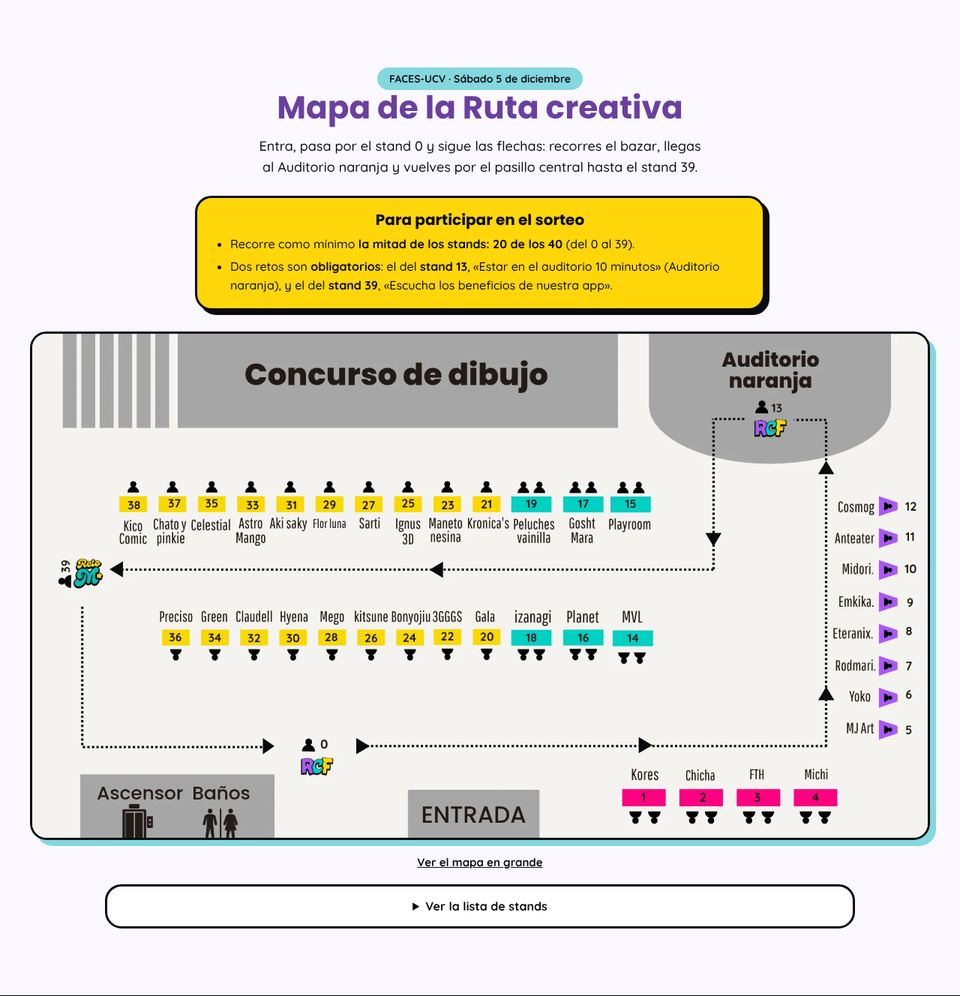
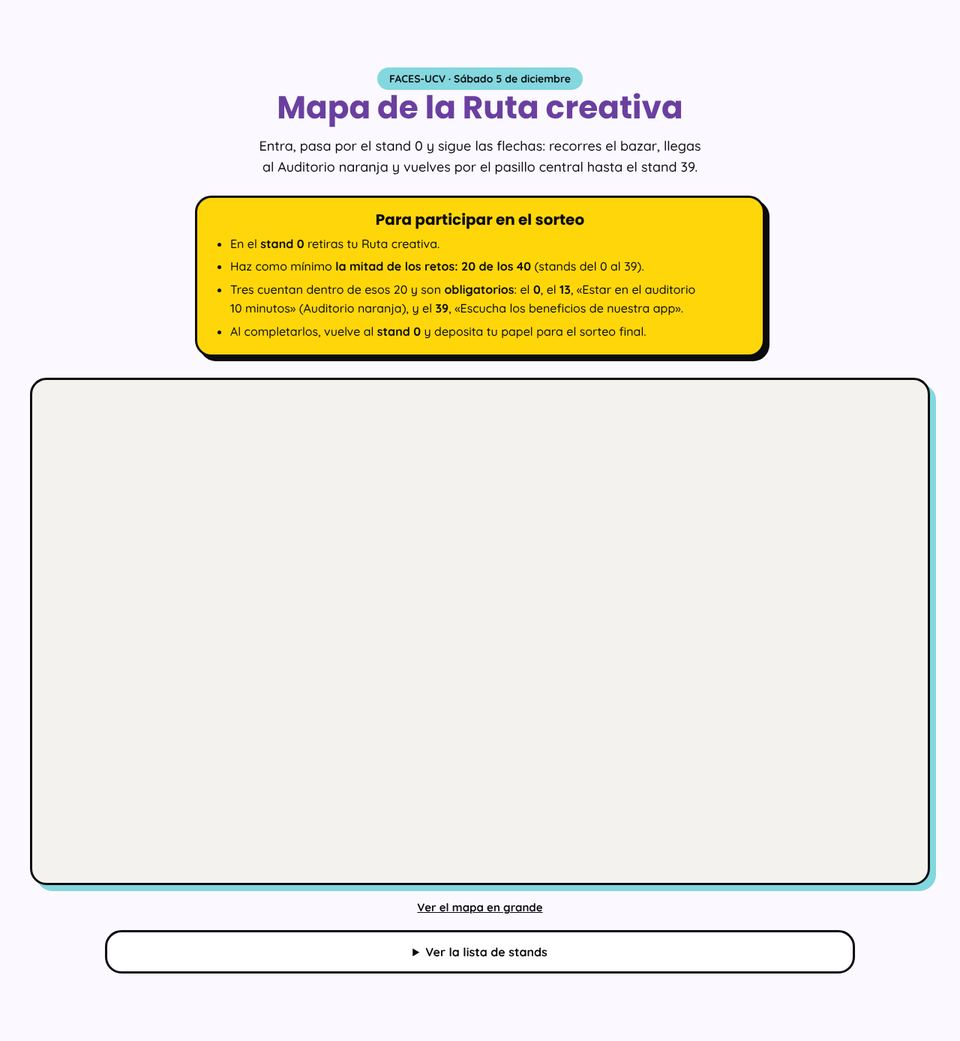
Reglas del sorteo: el stand 0 entrega la Ruta y recibe el papel; 0, 13 y 39 obligatorios
Diego: son 20 de los 40 retos, contando los obligatorios 0, 13 y 39. En el 0 se
retira la Ruta creativa y se deposita el papel del sorteo final.

Claude-Session: https://claude.ai/code/session_01RgcRwvdYtc4Fd2FpPkXk1s

diff --git a/index.html b/index.html
@@ -105,8 +105,10 @@
   <h2 class="h-sec" id="mapa-h">Mapa de la Ruta&nbsp;creativa</h2>
   <p class="lead">Entra, pasa por el stand 0 y sigue las flechas: recorres el bazar, llegas al Auditorio naranja y vuelves por el pasillo central hasta el&nbsp;stand&nbsp;39.</p>
   <div class="mapa-reglas"><h3>Para participar en el sorteo</h3><ul>
-    <li>Recorre como mínimo <b>la mitad de los stands: 20 de los 40</b> (del 0 al&nbsp;39).</li>
-    <li>Dos retos son <b>obligatorios</b>: el del <b>stand 13</b>, «Estar en el auditorio 10&nbsp;minutos» (Auditorio naranja), y el del <b>stand 39</b>, «Escucha los beneficios de nuestra&nbsp;app».</li>
+    <li>En el <b>stand 0</b> retiras tu Ruta&nbsp;creativa.</li>
+    <li>Haz como mínimo <b>la mitad de los retos: 20 de los 40</b> (stands del 0 al&nbsp;39).</li>
+    <li>Tres cuentan dentro de esos 20 y son <b>obligatorios</b>: el <b>0</b>, el <b>13</b>, «Estar en el auditorio 10&nbsp;minutos» (Auditorio naranja), y el <b>39</b>, «Escucha los beneficios de nuestra&nbsp;app».</li>
+    <li>Al completarlos, vuelve al <b>stand 0</b> y deposita tu papel para el sorteo&nbsp;final.</li>
   </ul></div>
   <div class="mapa-scroll" role="region" aria-label="Mapa de la Ruta creativa (en el teléfono, desliza hacia los lados)" tabindex="0">
     <img src="assets/img/mapa-ruta-creativa-960.webp" srcset="assets/img/mapa-ruta-creativa-960.webp 960w, assets/img/mapa-ruta-creativa.webp 1920w" sizes="(max-width: 860px) 860px, 1200px" width="1920" height="1080" loading="lazy" decoding="async" alt="Mapa de la Ruta creativa del 5 de diciembre en FACES-UCV. Desde la entrada se pasa por el stand 0 del RCF; a la derecha están los stands 1 a 4 de las marcas Kores, Chicha, FTH y Michi; las flechas suben por los stands 5 a 12 hasta el Auditorio naranja, donde está el stand 13 del RCF. De ahí bajan y recorren hacia la izquierda el pasillo central, con los stands 14 a 38 a ambos lados, hasta el stand 39 del #RetoMenteMilenial, y vuelven a la entrada. Al fondo está el Concurso de dibujo; junto a la entrada, el ascensor y los baños.">
